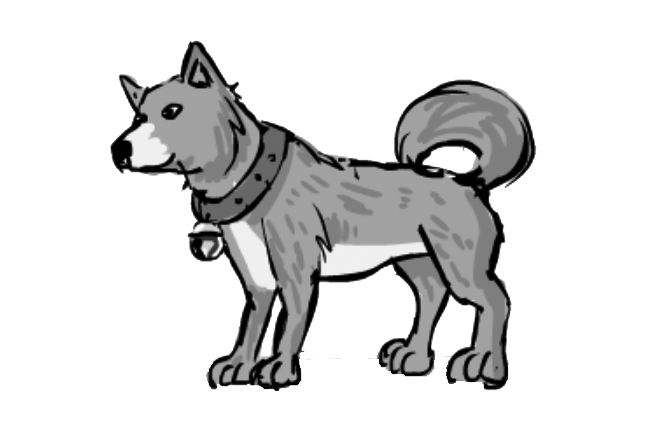
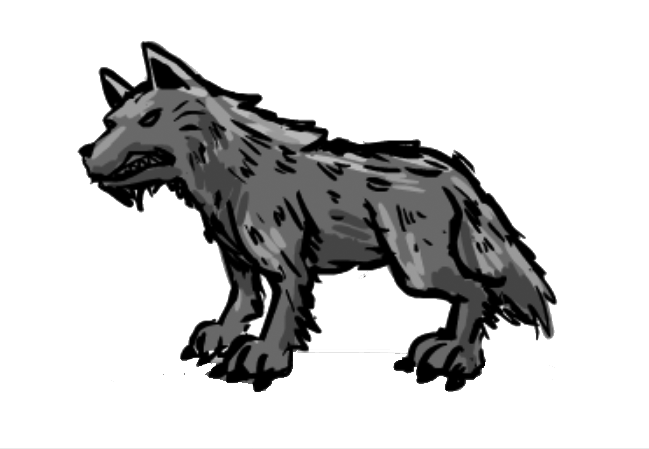
尝试加多个存档但失败了，后续再看

Changed region(s): [[0.1233, 0.0938, 0.8629, 0.875]]

diff --git a/src/controller/Controller.java b/src/controller/Controller.java
@@ -165,11 +165,11 @@ public class Controller implements GameListener {
                         boardView.redDeadPanel.add(r2.getLabel());
                     }
                     case 3 -> {
-                        DeadChessView r3 = new DeadChessView("resource/animals/left/grey/4.png");
+                        DeadChessView r3 = new DeadChessView("resource/animals/left/grey/3.png");
                         boardView.redDeadPanel.add(r3.getLabel());
                     }
                     case 4 -> {
-                        DeadChessView r4 = new DeadChessView("resource/animals/left/grey/3.png");
+                        DeadChessView r4 = new DeadChessView("resource/animals/left/grey/4.png");
                         boardView.redDeadPanel.add(r4.getLabel());
                     }
                     case 5 -> {
@@ -203,11 +203,11 @@ public class Controller implements GameListener {
                         boardView.blueDeadPanel.add(r2.getLabel());
                     }
                     case 3 -> {
-                        DeadChessView r3 = new DeadChessView("resource/animals/right/grey/4.png");
+                        DeadChessView r3 = new DeadChessView("resource/animals/right/grey/3.png");
                         boardView.blueDeadPanel.add(r3.getLabel());
                     }
                     case 4 -> {
-                        DeadChessView r4 = new DeadChessView("resource/animals/right/grey/3.png");
+                        DeadChessView r4 = new DeadChessView("resource/animals/right/grey/4.png");
                         boardView.blueDeadPanel.add(r4.getLabel());
                     }
                     case 5 -> {

diff --git a/src/view/BeginFrame.java b/src/view/BeginFrame.java
@@ -11,6 +11,7 @@ public class BeginFrame extends MyFrame{
     GameFrame gameFrame;
     LoginFrame loginFrame;
     SettingFrame settingFrame;
+    LoadFrame loadFrame;
     InstructionFrame instructionFrame;
     ScoreBoardFrame scoreBoardFrame;
     JLabel titleLabel1 = new JLabel("JUNGLE  CHESS");
@@ -19,14 +20,20 @@ public class BeginFrame extends MyFrame{
     JButton instructionButton;
     JButton loginButton;
     JButton boardButton;
+    JButton loadButton;
 
     public BeginFrame() throws FileNotFoundException {
         super(1000,500);
 
         GameFrame gameFrame = new GameFrame();
         Controller controller = new Controller(gameFrame.getBoardView(), new Board());
-        this.gameFrame = gameFrame;
         gameFrame.beginFrame = this;
+        this.gameFrame = gameFrame;
+
+
+        LoadFrame loadFrame=new LoadFrame();
+        this.loadFrame=loadFrame;
+        loadFrame.beginFrame=this;
 
         ScoreBoardFrame scoreBoardFrame =new ScoreBoardFrame();
         this.scoreBoardFrame = scoreBoardFrame;
@@ -50,7 +57,15 @@ public class BeginFrame extends MyFrame{
         addLoginButton();
         addInstructionButton();
         addBoardButton();
+        addLoadButton();
         this.setBackground("resource/background.gif");
+    }
+    private void addLoadButton(){
+        this.loadButton=new HomeButton("Load",700,250);
+        loadButton.addActionListener((e)->{
+            loadFrame.setVisible(true);
+        });
+        add(loadButton);
     }
     private void addBoardButton(){
         this.boardButton=new HomeButton("Board",400,250);

diff --git a/src/view/GameFrame.java b/src/view/GameFrame.java
@@ -1,9 +1,5 @@
 package view;
 
-import model.BGM;
-import model.Board;
-import model.Player;
-
 import javax.swing.*;
 import java.awt.*;
 
@@ -19,6 +15,7 @@ public class GameFrame extends MyFrame {
     JButton resetButton;
     JButton saveButton;
     AIFrame aiFrame=new AIFrame();
+    JFrame loadFrame;
     TurnLabel turnLabel=new TurnLabel();
     JLabel timeLabel;
     JLabel dayBG;
@@ -84,7 +81,7 @@ public class GameFrame extends MyFrame {
         this.saveButton=new GameButton("resource/icon/save-44.png");
         saveButton.setLocation(930,280);
         saveButton.addActionListener((e)->{
-
+            this.loadFrame.setVisible(true);
         });
         add(saveButton);
     }

diff --git a/src/view/AIFrame.java b/src/view/AIFrame.java
@@ -11,17 +11,23 @@ public class AIFrame extends MyFrame{
     JButton beginButton;
     JButton backButton;
     GameFrame gameFrame;
+    JComboBox comboBox;
 
     public AIFrame(){
         super(498,280);
 
         addBeginButton();
         addBackButton();
+        addDifficultyChooser();
 
         this.setBackground("resource/registerframe.gif");
     }
     private void addDifficultyChooser(){
-
+        this.comboBox=new JComboBox();
+        comboBox.addItem("--please choose one--");
+        comboBox.addItem("easy");
+        comboBox.addItem("difficult");
+        add(comboBox);
     }
     private void addWelcomeLabel(){
         this.welcomeLabel=new JLabel();

diff --git a/src/view/chessView/WolfView.java b/src/view/chessView/WolfView.java
@@ -29,9 +29,9 @@ public class WolfView extends AnimalView {
     protected void paintComponent(Graphics g) {
         super.paintComponent(g);
 
-        ImageIcon pic = new ImageIcon("resource\\animals\\left\\3.png");
+        ImageIcon pic = new ImageIcon("resource\\animals\\left\\4.png");
         if (owner == Player.BLUE){
-            pic = new ImageIcon("resource\\animals\\right\\3.png");
+            pic = new ImageIcon("resource\\animals\\right\\4.png");
         }
         Image image = pic.getImage();
         pic = new ImageIcon(image.getScaledInstance(size,size,Image.SCALE_SMOOTH));

diff --git a/src/view/chessView/DogView.java b/src/view/chessView/DogView.java
@@ -29,9 +29,9 @@ public class DogView extends AnimalView {
     protected void paintComponent(Graphics g) {
         super.paintComponent(g);
 
-        ImageIcon pic = new ImageIcon("resource\\animals\\left\\4.png");
+        ImageIcon pic = new ImageIcon("resource\\animals\\left\\3.png");
         if (owner == Player.BLUE){
-            pic = new ImageIcon("resource\\animals\\right\\4.png");
+            pic = new ImageIcon("resource\\animals\\right\\3.png");
         }
         Image image = pic.getImage();
         pic = new ImageIcon(image.getScaledInstance(size,size,Image.SCALE_SMOOTH));
